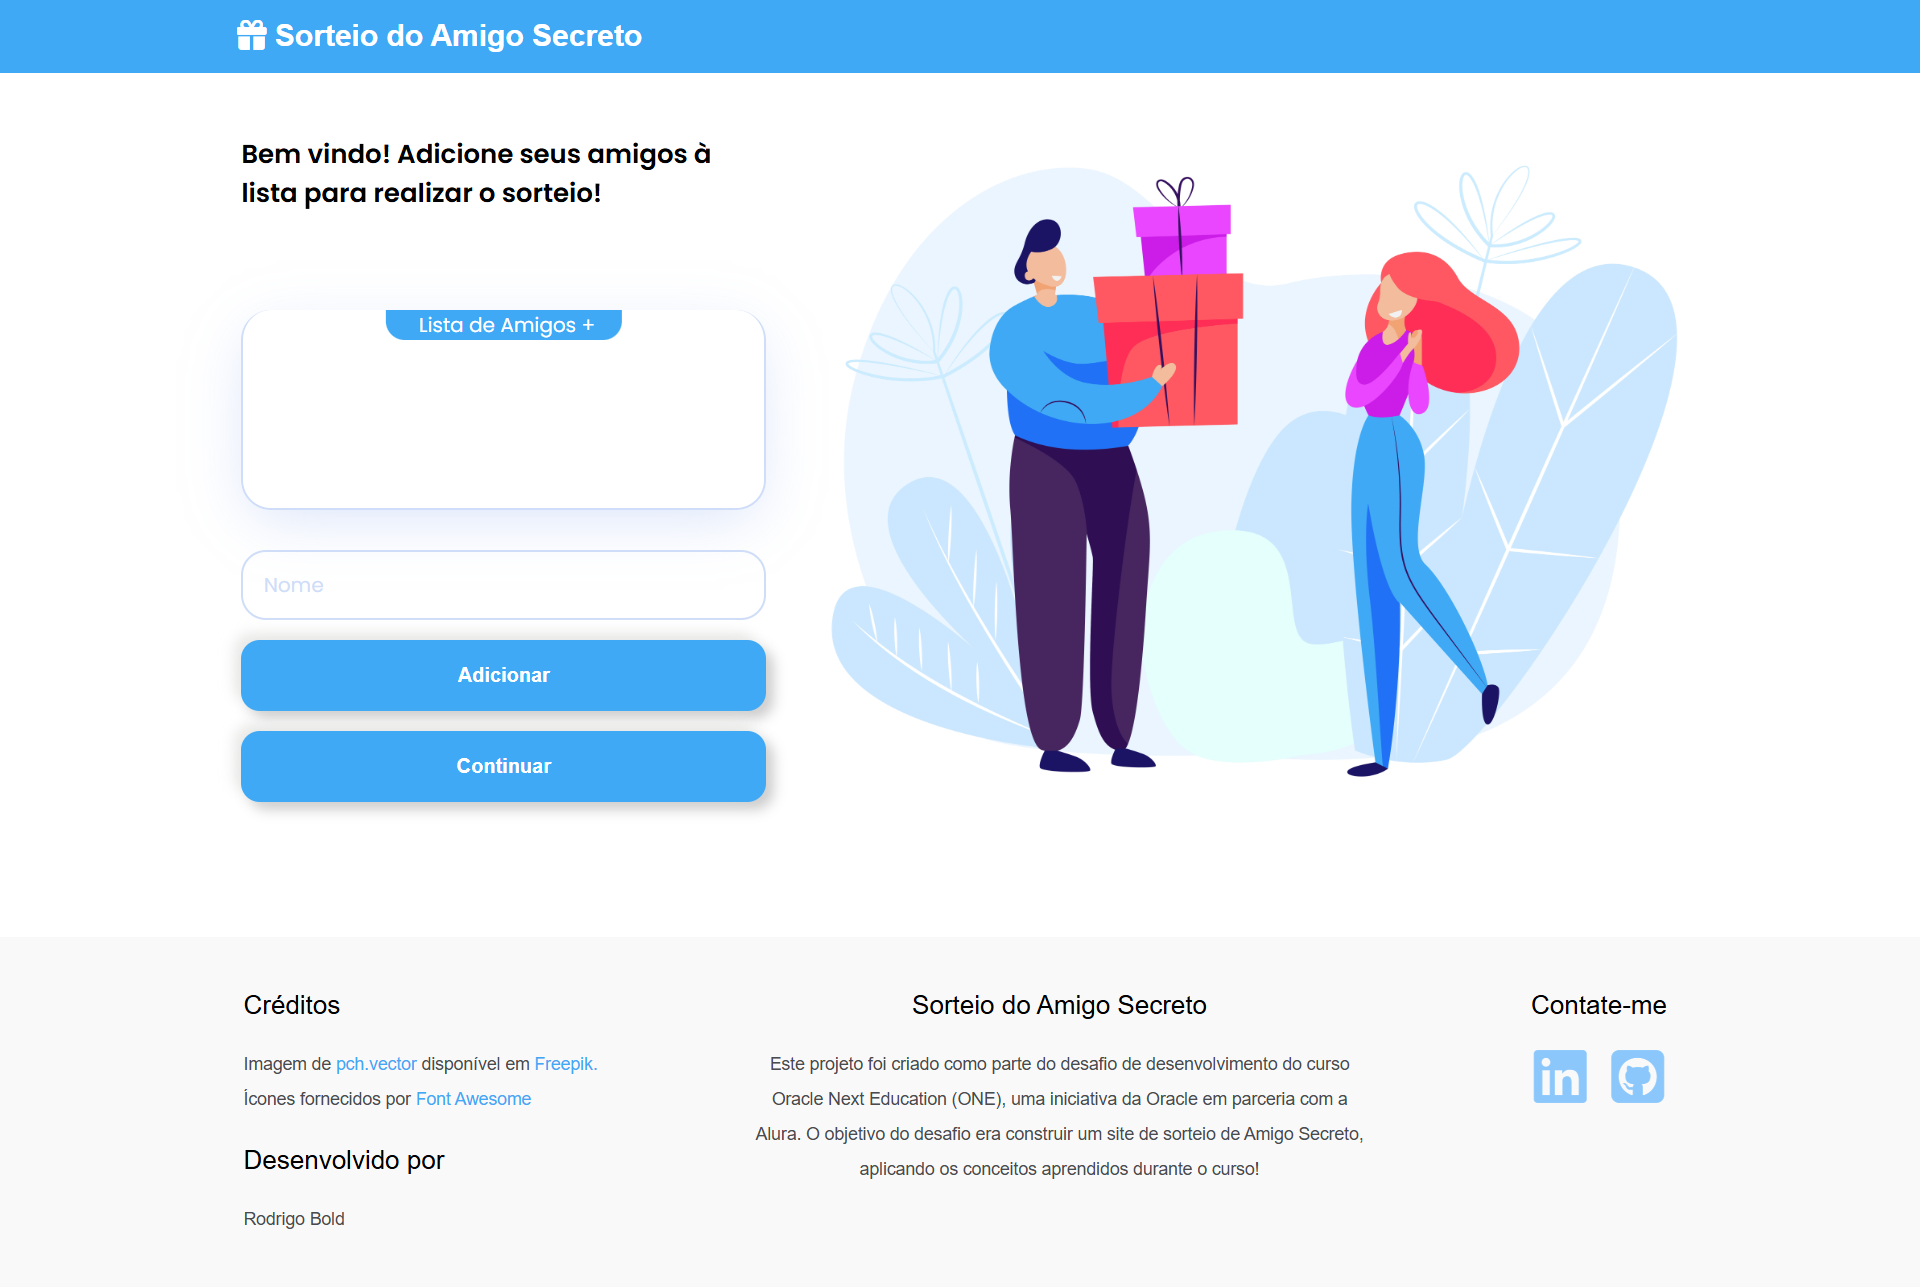
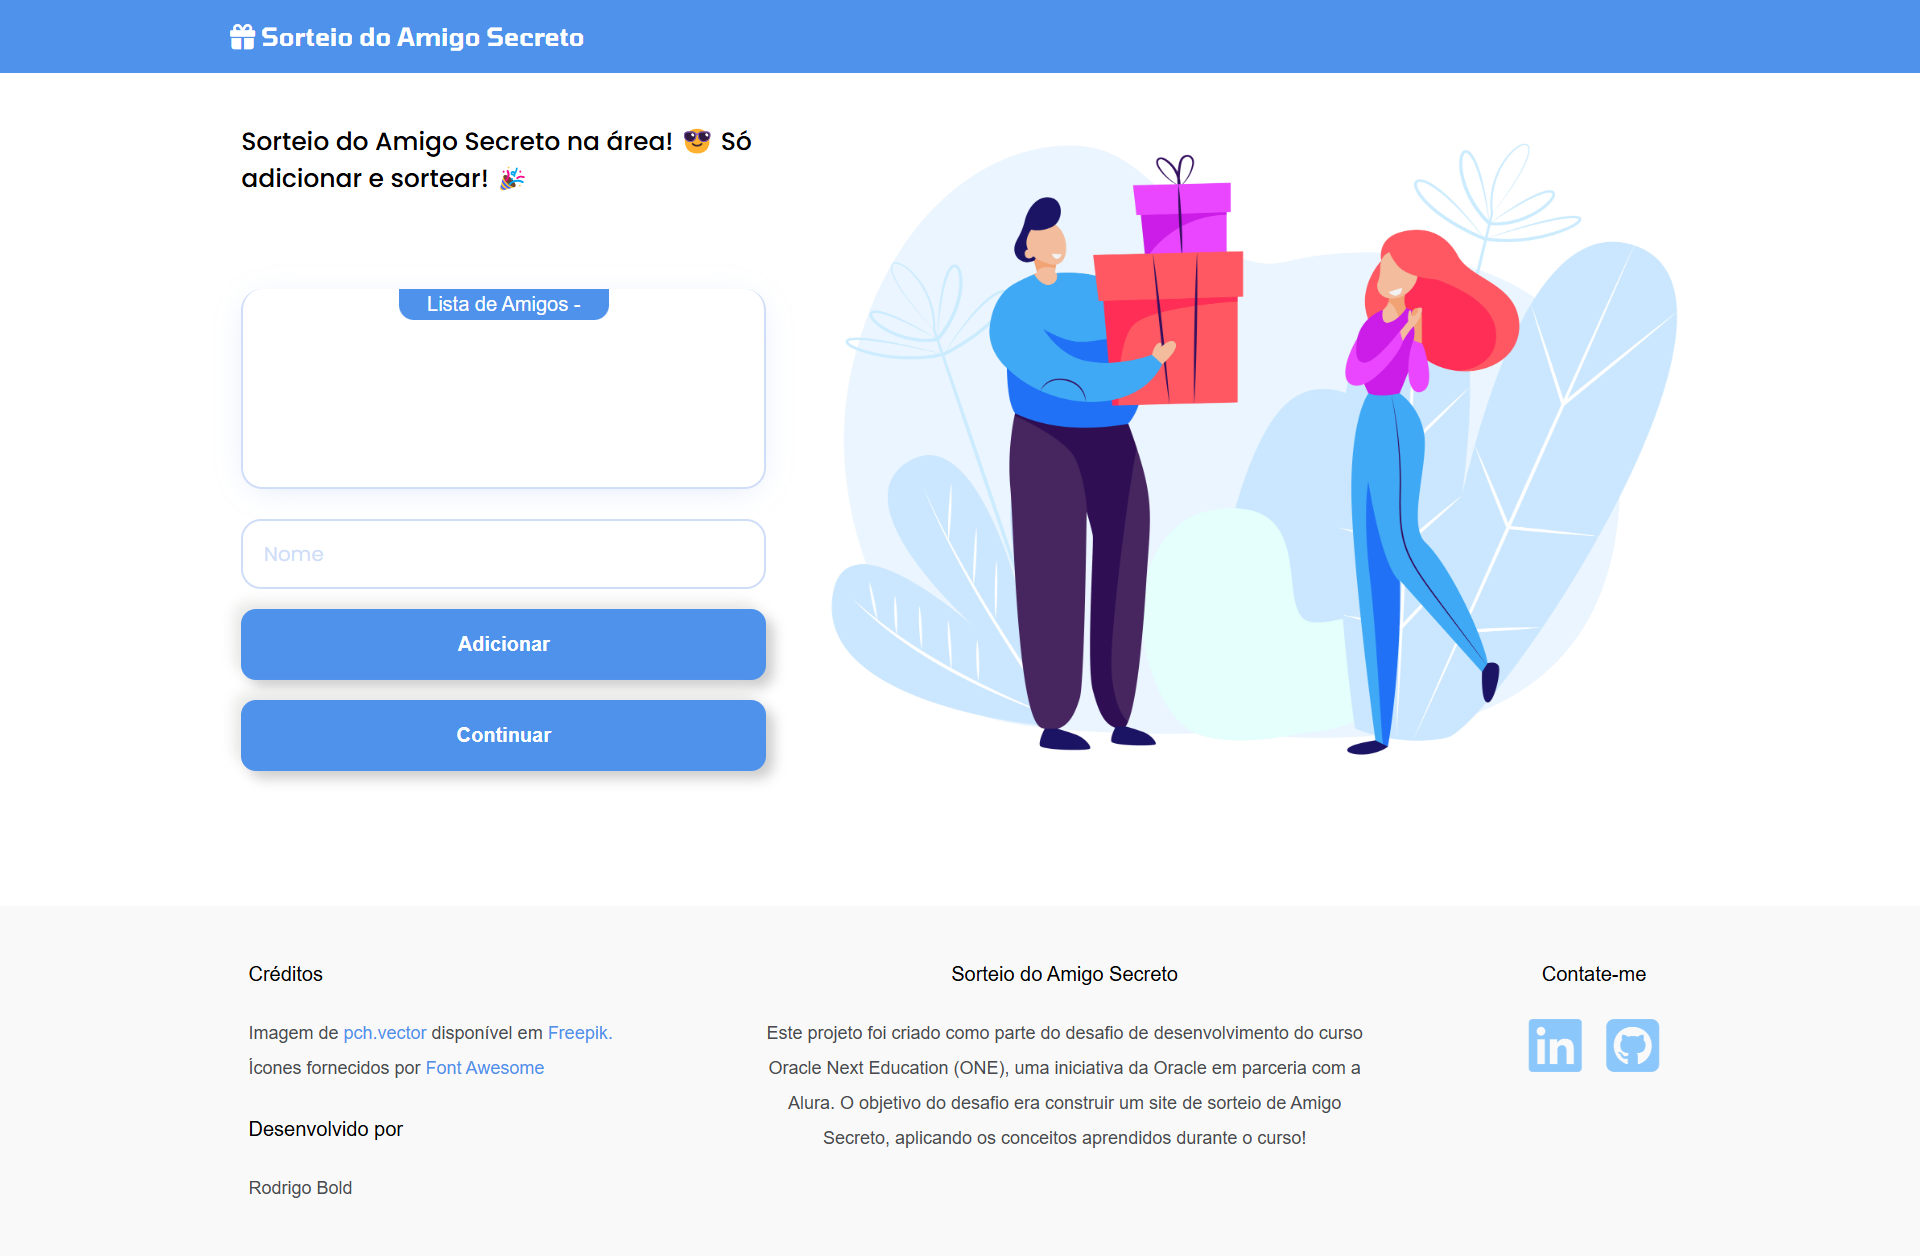
docs: update README with feature documentation
- Added sections for challenge objectives and libraries
- Documented new features (confetti animation, participant editing)
- Added code examples with expandable sections
- Improved participant management instructions
- Updated project description and functionality list
- Updated project image

diff --git a/README.md b/README.md
@@ -5,95 +5,189 @@
 
 - [Descrição](#-descrição)
 - [Funcionalidades do Projeto](#-funcionalidades-do-projeto)
+- [Objetivos do Desafio](#-objetivos-do-desafio)
 - [Tecnologias Utilizadas](#-tecnologias-utilizadas)
 - [Como Usar](#-como-usar)
-- [Algoritmo de Sorteio](#-algoritmo-de-sorteio)
 - [Responsividade](#-responsividade)
 - [Créditos](#-créditos)
 
 ## 📝 Descrição
-Um aplicativo web interativo para realizar sorteios de amigo secreto de forma simples. Desenvolvido como parte do desafio do curso Oracle Next Education (ONE), uma iniciativa da Oracle em parceria com a Alura. O aplicativo permite organizar sorteios de amigo secreto, facilitando a distribuição aleatória de pares entre os participantes.
+Este projeto foi criado como parte do desafio de desenvolvimento do curso Oracle Next Education (ONE), uma iniciativa da Oracle em parceria com a Alura. O objetivo do desafio era construir um site de sorteio de Amigo Secreto, aplicando os conceitos aprendidos durante o curso!
 
 ## 🚀 Funcionalidades do Projeto
 
 - ✅ Adicione nomes de participantes à lista de sorteio  
 - 🎉 Realize o sorteio garantindo que ninguém tire o próprio nome  
-- 👥 Interface para revelar os pares de forma individual (ideal para usar em um único dispositivo compartilhado)  
+- 👥 Interface para revelar os pares de forma individual
+- ✏ Edição e remoção de participantes já adicionados
 - 🔒 Opção de esconder/mostrar o nome do amigo sorteado  
+- 🎊 Animação de confetes ao revelar cada amigo secreto
 - 📱 Design responsivo para desktop e dispositivos móveis
 
 ## 🛠 Tecnologias Utilizadas
 - HTML5  
 - CSS3  
 - JavaScript (Vanilla)  
-- Font Awesome (ícones)
 
 <br>
 
 <span>![HTML5](https://img.shields.io/badge/HTML5-%23E34F26.svg?style=flat&logo=html5&logoColor=white)</span> 
 <span>![CSS3](https://img.shields.io/badge/CSS3-%231572B6.svg?style=flat&logo=css3&logoColor=white)</span> 
 <span>![JavaScript](https://img.shields.io/badge/JavaScript-%23F7DF1E.svg?style=flat&logo=javascript&logoColor=black)</span> 
-<span>![Font Awesome](https://img.shields.io/badge/Font%20Awesome-%23000000.svg?style=flat&logo=font-awesome&logoColor=white)</span>
+
+
+## 📚 Bibliotecas utilizadas
+- [Font Awesome](https://fontawesome.com/) (via CDN) – Para animações de confetes
+- [Canvas-confetti](https://cdn.jsdelivr.net/npm/canvas-confetti) (via CDN) – Para ícones 
+
+
+## 🎯 Objetivos do Desafio
+
+### 1⃣ Array para armazenar nomes 
+
+✅ Array `participants` declarada para armazenar a lista de amigos
+<details>
+<summary>Código</summary>
+<br>
+
+```javascript
+let participants = [];
+```
+</details>
+
+### 2⃣ Função para adicionar amigos 
+
+`insertFriend()`  
+
+✅ Captura o campo de entrada  
+✅ Valida campos vazios  
+✅ Exibe alertas para erros  
+✅ Atualiza o array de amigos  
+✅ Limpa o campo após adição  
+
+<details>
+<summary>Código</summary>
+<br>
+
+```javascript
+function insertFriend() { 
+    const inputName = document.getElementById('inputField'); 
+    const normalizedName = inputName.value.trim(); 
+    if (normalizedName === '') { 
+        showAlertMessage("Por favor, insira um nome!"); 
+    } else if (participants.map(p => p.toLowerCase()).includes(normalizedName.toLowerCase())) { 
+        showAlertMessage(`${normalizedName} já está na lista!`); 
+    } else { 
+        participants.push(normalizedName); 
+        updateFriendsList(); 
+        inputName.value = ''; 
+    } 
+}
+```
+</details>
+
+
+### 3⃣ Função para atualizar a lista de amigos 
+
+`updateFriendsList()`
+
+✅ Obtém o elemento da lista  
+✅ Limpa a lista existente  
+✅ Percorre o array de amigos  
+✅ Adiciona elementos à lista HTML  
+
+<details>
+<summary>Código</summary>
+<br>
+
+```javascript
+function updateFriendsList() { 
+    const list = document.getElementById('participantsList'); 
+    list.innerHTML = ''; 
+    participants.forEach((friend, index) => { 
+        list.prepend(createParticipantItem(friend, index)); 
+    }); 
+}
+```
+</details>
+
+### 4⃣ Funções para sortear os amigos 
+`generatePairs()`  
+
+✅ Valida a disponibilidade de amigos  
+✅ Gera índices aleatórios  
+✅ Obtém o nome sorteado  
+
+<details>
+<summary>Código</summary>
+<br>
+
+```javascript
+function generatePairs(participants) { 
+    if (participants.length < 2) { 
+        showAlertMessage("Por favor, adicione mais amigos!"); 
+        return; 
+    } 
+    let pickedFriends; 
+    let isValid = false; 
+    while (!isValid) { 
+        pickedFriends = [...participants]; 
+        shuffleArray(pickedFriends); 
+        isValid = pickedFriends.every((friend, index) => friend !== participants[index]); 
+    } 
+    const friendsPairs = {}; 
+    participants.forEach((participant, index) => { 
+        friendsPairs[participant] = pickedFriends[index]; 
+    }); 
+    return friendsPairs; 
+}
+```
+
+</details>
+<br>
+
+`revealSecretFriend()`  
+
+✅ Exibe o resultado do sorteio   
+
+<details>
+<summary>Código</summary>
+<br>
+
+```javascript
+function revealSecretFriend(button) {
+    if (currentPairIndex < entries.length) {
+        const [drawer, friend] = entries[currentPairIndex];
+        displayDrawResult(drawer, friend);
+        // O restante do código continua...
+    }
+}
+```
+
+</details>
+<br>
+
 ## 🎮 Como Usar
 
-### 📥 Clonando o Repositório
+### 📂 Clonando o Repositório
 1. Clone o repositório:  
    `git clone https://github.com/seu-usuario/sorteio-amigo-secreto.git`
 
 2. Abra o arquivo `index.html` no seu navegador ou hospede os arquivos em um servidor web.
 
-### 📝 Adicionando Participantes
+### ➕👫 Adicionando Participantes
 - Adicione os nomes dos participantes no campo "Nome".
+- Para editar um nome já adicionado, clique no ícone de edição ou dê um duplo clique no nome
+- Para remover um participante, clique no ícone de lixeira
 
 ### 🎲 Iniciando o Sorteio
 - Clique em "Continuar" para iniciar o sorteio. O sistema irá garantir que ninguém tire o próprio nome.
 
-### 👥 Revelando o Amigo Secreto
+### ✨  Revelando o Amigo Secreto
 - Clique em "Preparar" para ver quem será o próximo a sortear.
 - Clique em "Sortear" para revelar o amigo secreto.
 - Use o botão "Ocultar" para esconder o resultado antes de passar o dispositivo.
-
-## 🧠 Algoritmo de Sorteio
-O aplicativo utiliza um algoritmo que garante:
-
-- Distribuição aleatória dos pares  
-- Nenhum participante sorteia o próprio nome  
-- Cada pessoa é sorteada exatamente uma vez
-
-```javascript
-// Função que gera pares para o sorteio do Amigo Secreto
-function generatePairs(participants) {
-    // Verifica se há pelo menos 2 participantes. Se não, exibe um alerta.
-    if (participants.length < 2) {
-        showAlertMessage("Por favor, adicione mais amigos!"); 
-        return; 
-    }
-
-    let pickedFriends; // Variável para nova lista de participantes que será embaralhada
-    let isValid = false; // Variável para garantir que o sorteio seja válido (ninguém pode se tirar)
-
-    // Tenta gerar um sorteio válido até que todos os participantes tenham amigos diferentes
-    while (!isValid) {
-        pickedFriends = [...participants]; // Cria uma cópia da lista original de participantes
-        shuffleArray(pickedFriends); // Chama a função shuffleArray para embaralhar a lista copiada para gerar novos pares
-
-        // Verifica se ninguém se tirou no sorteio (cada participante não pode ser seu próprio amigo secreto)
-        isValid = pickedFriends.every((friend, index) => friend !== participants[index]);
-    }
-
-    // Cria um objeto para armazenar o amigo secreto de cada participante
-    let friendsPairs = {}; 
-
-    // Mapeia cada participante para o seu amigo secreto
-    participants.forEach((participant, index) => {
-        // Adiciona no objeto o participante e o seu respectivo amigo secreto
-        friendsPairs[participant] = pickedFriends[index];
-    });
-
-    // Retorna o objeto com todos os pares de amigo secreto
-    return friendsPairs;
-}
-```
+- Clique em "Reiniciar" para começar um novo sorteio após todos verem seus resultados.
 
 ## 📱 Responsividade
 O aplicativo foi projetado para funcionar em:
@@ -103,9 +197,10 @@ O aplicativo foi projetado para funcionar em:
 - 📲 Smartphones e dispositivos móveis
 
 ## 👥 Créditos
-- Imagens: pch.vector via Freepik  
-- Ícones: Font Awesome  
-- Desenvolvido por: Rodrigo Bold
+- Imagens: [pch.vector](https://www.freepik.com/author/pch-vector) via [Freepik](https://www.freepik.com/)  
+- Ícones: [Font Awesome](https://fontawesome.com/)  
+- Efeitos: [Canvas-confetti](https://cdn.jsdelivr.net/npm/canvas-confetti)  
+- Desenvolvido por: [Rodrigo Bold](https://www.linkedin.com/in/rodrigo-bold/)
 
+<br>
 
-⭐ Gostou do projeto? Deixe uma estrela no repositório!
